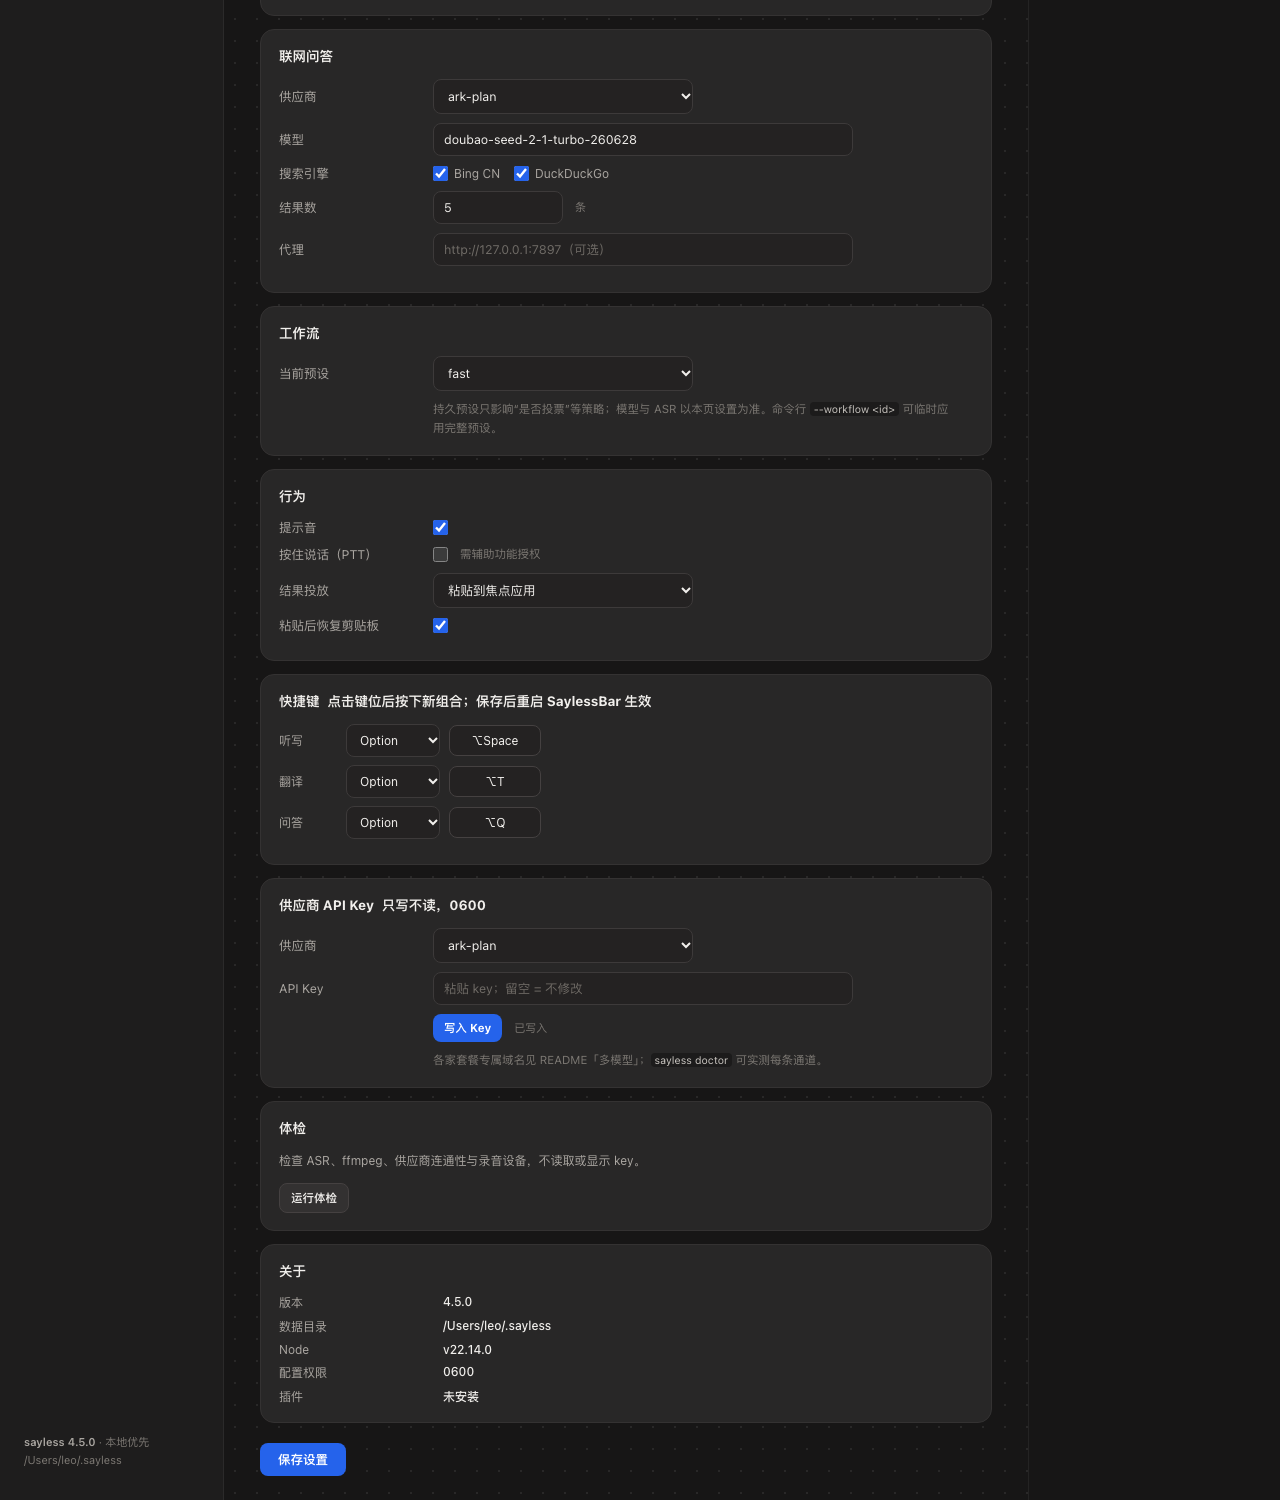
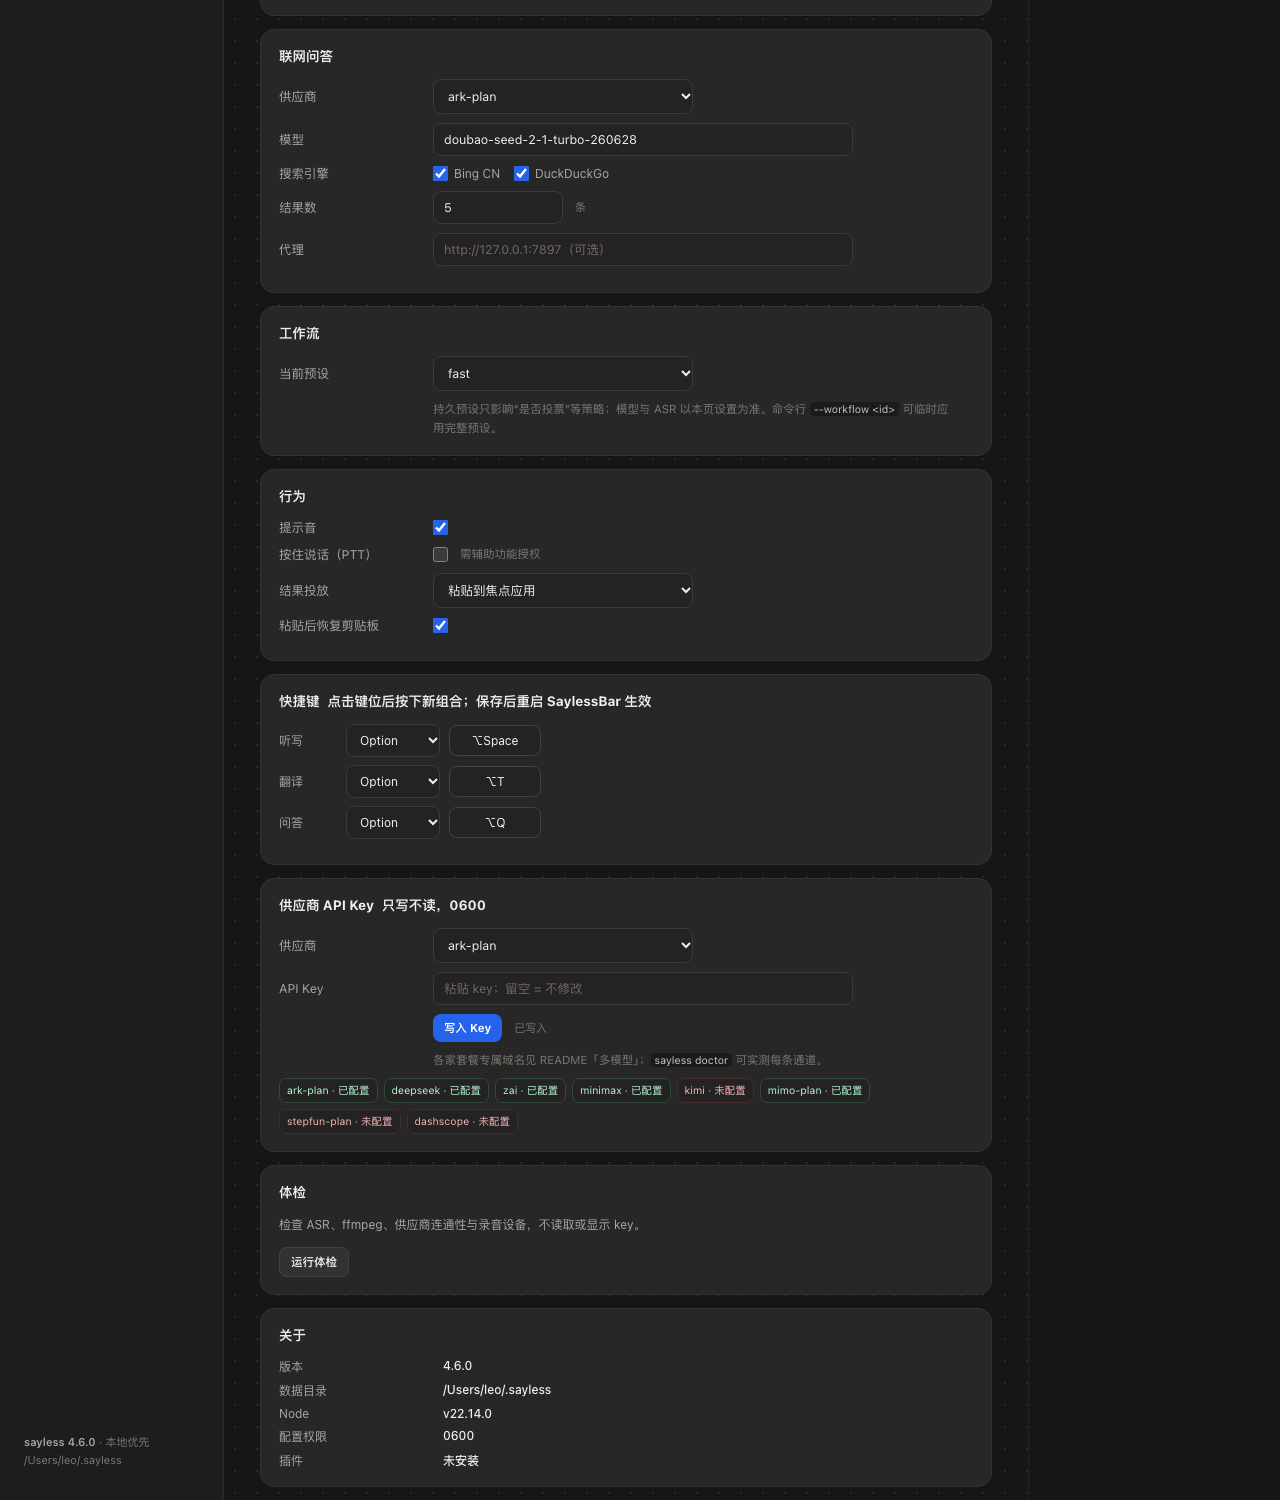
v4.6.0: first-run onboarding, provider status, history detail
- hub: one-click init via bundled CLI when config/providers missing (shows CLI errors)
- settings: per-provider key status chips, click to select, live update after key write
- history: expandable ASR raw text + ASR/LLM/total timings
- hotkeys: inline duplicate-combo warning, save blocked on conflicts; capture mode unregisters Carbon hotkeys
- app: inject configExists/dictExists/timings; version/Info/CLI/package bumped to 4.6.0
- tests: 68 Node integration tests incl. onboarding/provider/history-detail DOM checks
- docs/screenshots refreshed

diff --git a/app/hub.html b/app/hub.html
@@ -57,6 +57,12 @@ h2.sec{font-size:13px;color:var(--sub);font-weight:700;letter-spacing:.7px;margi
 h2.sec .note{font-size:11px;color:var(--muted);font-weight:400;letter-spacing:0;text-transform:none;margin-left:8px}
 .grid2{display:grid;grid-template-columns:1fr 1fr;gap:14px}
 .grid2>*{min-width:0}
+.setup-banner{display:flex;gap:14px;align-items:center;background:#2a2418;border:1px solid #5b4a2a;border-radius:14px;padding:14px 16px;margin-bottom:18px;max-width:960px}
+.setup-banner[hidden]{display:none}
+.setup-banner .sb-body{flex:1;min-width:0}
+.setup-banner .sb-body b{font-size:13px}
+.setup-banner .sub{font-size:11.5px;margin-top:3px;color:#d6c49c}
+.setup-banner .warn{margin-top:5px;white-space:pre-wrap}
 .card{background:var(--card);border:1px solid #353333;border-radius:var(--radius);padding:18px}
 .card.tight{padding:14px}
 .card h3{font-size:13.5px;font-weight:700;margin-bottom:10px;display:flex;align-items:center;gap:8px}
@@ -170,6 +176,13 @@ input[type=checkbox]{width:15px;height:15px;accent-color:#2563eb}
 .statusbar .s{font-size:10.5px;color:#cfcbc5;background:#242222;border:1px solid #383535;border-radius:7px;padding:4px 7px}
 .statusbar .s.ok{color:#b8f3d8;border-color:#2f4b35}
 .statusbar .s.bad{color:#f4b6b6;border-color:#4a2929}
+button.s{cursor:pointer}
+button.s:hover{background:#343131}
+.hist-detail{grid-column:1/-1;border-top:1px solid #3a3737;margin-top:2px;padding-top:9px;display:grid;gap:7px}
+.hist-detail[hidden]{display:none}
+.hd-label{font-size:10px;color:var(--muted);letter-spacing:.5px;text-transform:uppercase;margin-bottom:3px}
+.hd-pre{background:#1b1a1a;border:1px solid #343232;border-radius:8px;padding:8px 10px;font-size:11.5px;line-height:1.55;color:#d8d4cf;white-space:pre-wrap;word-break:break-word;max-height:160px;overflow:auto;margin:0}
+.hd-meta{font-size:10.5px;color:var(--muted);line-height:1.6}
 .cross-row{display:flex;gap:7px;align-items:center;margin-bottom:7px}
 .cross-row select{max-width:150px;flex-shrink:0}
 .cross-row input{flex:1;min-width:100px;background:#242222;border:1px solid #3d3a3a;border-radius:8px;padding:8px 10px;font-size:12.5px;color:var(--txt);outline:none}
@@ -259,6 +272,15 @@ kbd{display:inline-block;background:#3a3838;border:1px solid #4b4747;border-bott
 </div>
 
 <div class="main">
+  <div class="setup-banner" id="setup-banner" hidden>
+    <div class="sb-body">
+      <b>首次使用</b>
+      <div class="sub" id="setup-text"></div>
+      <div class="warn" id="setup-error" hidden></div>
+    </div>
+    <button class="btn mini" id="setup-init" data-act="init-config">一键初始化</button>
+  </div>
+
   <!-- 首页 -->
   <div class="tab" id="t0">
     <div class="hero">
@@ -453,6 +475,7 @@ kbd{display:inline-block;background:#3a3838;border:1px solid #4b4747;border-bott
       <div class="section">
         <h3>快捷键 <span class="hintdot">点击键位后按下新组合；保存后重启 SaylessBar 生效</span></h3>
         <div id="hotkey-rows"></div>
+        <div class="warn" id="hotkey-conflict" style="display:none"></div>
         <div class="warn" id="hotkey-warn" style="display:none"></div>
       </div>
 
@@ -462,6 +485,7 @@ kbd{display:inline-block;background:#3a3838;border:1px solid #4b4747;border-bott
         <div class="frow"><label>API Key</label><input type="password" id="s-key-value" placeholder="粘贴 key；留空 = 不修改" autocomplete="off"></div>
         <div class="frow"><label></label><button class="btn mini" data-act="save-key">写入 Key</button><span class="unit" id="key-status"></span></div>
         <div class="hint">各家套餐专属域名见 README「多模型」；<code>sayless doctor</code> 可实测每条通道。</div>
+        <div class="statusbar" id="provider-status"></div>
       </div>
 
       <div class="section">
@@ -668,6 +692,49 @@ function copyText(text) {
 }
 
 /* ---------- 首页 ---------- */
+function timingText(t) {
+  if (!t) return '耗时 —';
+  var asr = Number(t.asr || 0), llm = Number(t.llm || 0), total = Number(t.total || 0);
+  return 'ASR ' + asr + 'ms · LLM ' + llm + 'ms · 总计 ' + total + 'ms';
+}
+function renderSetupBanner() {
+  var el = $('#setup-banner');
+  if (!el) return;
+  var missing = ENV.configExists === false;
+  var noProviders = !PROVIDERS.length;
+  if (!missing && !noProviders) { el.hidden = true; return; }
+  el.hidden = false;
+  var text = missing
+    ? '还没有 ~/.sayless/config.json。初始化会生成本地配置与空词库（不联网）。'
+    : '配置里还没有供应商。初始化会补全内置 provider 列表。';
+  $('#setup-text').textContent = text;
+  var btn = $('#setup-init');
+  if (btn && !btn.disabled) btn.textContent = missing ? '一键初始化' : '补全默认配置';
+}
+function renderProviderStatus() {
+  var el = $('#provider-status');
+  if (!el) return;
+  if (!PROVIDERS.length) {
+    el.innerHTML = '<span class="s bad">无供应商（先初始化配置）</span>';
+    return;
+  }
+  el.innerHTML = PROVIDERS.map(function (p) {
+    var ok = !!KEYSTATUS[p];
+    return '<button class="s ' + (ok ? 'ok' : 'bad') + '" data-act="pick-provider" data-provider="' + attr(p) + '">'
+      + esc(p) + ' · ' + (ok ? '已配置' : '未配置') + '</button>';
+  }).join('');
+}
+function hotkeyConflicts() {
+  var seen = {}, out = [];
+  ['dictate', 'translate', 'ask'].forEach(function (slot) {
+    var h = HOTKEYS[slot];
+    if (!h || h.key == null) return;
+    var sig = h.key + ':' + h.modifier;
+    if (seen[sig]) out.push(seen[sig] + ' / ' + slot + ' 都是 ' + hotkeyText(h));
+    else seen[sig] = slot;
+  });
+  return out;
+}
 function renderHomeShortcuts() {
   var el = $('#home-shortcuts');
   if (!el) return;
@@ -748,12 +815,17 @@ function renderHistory() {
   $('#hist-list').innerHTML = list.map(function (e, i) {
     var m = modeLabel(e.mode);
     var rec = e.rec ? String(e.rec) : '';
-    var actions = '<button class="iconbtn" data-act="copy-hist" title="复制">⧉</button>';
+    var actions = '<button class="iconbtn" data-act="toggle-detail" title="详情">ⓘ</button>' +
+      '<button class="iconbtn" data-act="copy-hist" title="复制">⧉</button>';
     if (rec) {
       actions += '<button class="iconbtn" data-act="play" data-file="' + attr(rec) + '" title="回放">▶</button>';
       actions += '<button class="iconbtn" data-act="retranscribe" data-file="' + attr(rec) + '" title="重转写">↻</button>';
     }
     actions += '<button class="iconbtn danger" data-act="del-hist" data-ts="' + attr(e.ts) + '" title="删除">✕</button>';
+    var detail = '<div class="hist-detail" hidden>' +
+      '<div><div class="hd-label">ASR 原文</div><pre class="hd-pre">' + esc(e.raw || '（无原文记录）') + '</pre></div>' +
+      '<div class="hd-meta">' + timingText(e.timings) + (e.app ? ' · 应用 ' + esc(e.app) : '') + (rec ? ' · 录音 ' + esc(rec) : '') + '</div>' +
+      '</div>';
     return '<div class="hist-row" data-ts="' + attr(e.ts) + '">' +
       '<div class="hist-time">' + esc(timeLabel(e.ts)) + '</div>' +
       '<div><span class="mode ' + m.cls + '">' + esc(m.text) + '</span></div>' +
@@ -761,6 +833,7 @@ function renderHistory() {
       (e.app ? '<div class="hist-app">应用 · ' + esc(e.app) + '</div>' : '') +
       '</div>' +
       '<div class="hist-actions">' + actions + '</div>' +
+      detail +
       '</div>';
   }).join('');
 }
@@ -860,6 +933,17 @@ function renderHotkeys() {
     var h = HOTKEYS[slot] || {};
     return '<div class="k">' + names[slot] + '</div><kbd>' + esc(MOD_NAMES[h.modifier] || '') + '</kbd><kbd>' + esc(h.label || keyLabel(h.key)) + '</kbd>';
   }).join('');
+  var conflictEl = $('#hotkey-conflict');
+  if (conflictEl) {
+    var conflicts = hotkeyConflicts();
+    if (conflicts.length) {
+      conflictEl.style.display = 'block';
+      conflictEl.textContent = '快捷键冲突：' + conflicts.join('；') + '。请改开后再保存。';
+    } else {
+      conflictEl.style.display = 'none';
+      conflictEl.textContent = '';
+    }
+  }
   renderHomeShortcuts();
 }
 function renderSettings() {
@@ -904,6 +988,8 @@ function renderSettings() {
   updateAsrHint();
   renderStatus();
   renderEnv();
+  renderProviderStatus();
+  renderSetupBanner();
 }
 function updateAsrHint() {
   var hints = {
@@ -1000,16 +1086,9 @@ function collectSettings() {
   };
 }
 function saveSettings() {
-  var seen = {}, conflict = null;
-  ['dictate', 'translate', 'ask'].forEach(function (slot) {
-    var h = HOTKEYS[slot];
-    if (!h || h.key == null) return;
-    var sig = h.key + ':' + h.modifier;
-    if (seen[sig]) conflict = seen[sig] + ' / ' + slot;
-    else seen[sig] = slot;
-  });
-  if (conflict) {
-    toast('快捷键冲突：' + conflict + ' 使用了同一组合，请先改开', 'warn');
+  var conflicts = hotkeyConflicts();
+  if (conflicts.length) {
+    toast('快捷键冲突：' + conflicts.join('；'), 'warn');
     return;
   }
   var cfg = collectSettings();
@@ -1045,6 +1124,14 @@ window.doctorDone = function (text) {
   var btn = $('#doctor-btn');
   if (btn) btn.disabled = false;
 };
+window.initConfigDone = function (ok, text) {
+  var btn = $('#setup-init');
+  if (btn) { btn.disabled = false; btn.textContent = ok ? '已初始化' : '一键初始化'; }
+  var err = $('#setup-error');
+  if (!ok && err) { err.hidden = false; err.textContent = String(text || '初始化失败'); }
+  if (ok) toast('配置已生成，正在刷新…');
+  else toast('初始化失败', 'warn');
+};
 window.settingsSaved = function () {
   var el = $('#save-status');
   if (el) {
@@ -1062,6 +1149,7 @@ window.keySaved = function () {
     el.textContent = '已写入 ✓';
     setTimeout(function () { el.textContent = ''; }, 3000);
   }
+  renderProviderStatus();
   toast('API Key 已写入本地配置');
 };
 window.hubActionDone = function (msg) {
@@ -1133,6 +1221,31 @@ document.addEventListener('click', function (e) {
     renderCross(models2); return;
   }
   if (act === 'capture-key') return startCapture(btn.getAttribute('data-slot'));
+  if (act === 'toggle-detail') {
+    var detail = $('.hist-detail', btn.closest('.hist-row'));
+    if (detail) { detail.hidden = !detail.hidden; btn.style.color = detail.hidden ? '' : 'var(--accent)'; }
+    return;
+  }
+  if (act === 'pick-provider') {
+    var pick = btn.getAttribute('data-provider') || '';
+    var selKey = $('#s-key-provider');
+    if (selKey && pick) {
+      selKey.value = pick;
+      selKey.dispatchEvent(new Event('change'));
+      toast('已选择 ' + pick + '，可粘贴 key 后写入');
+    }
+    return;
+  }
+  if (act === 'init-config') {
+    var initBtn = $('#setup-init');
+    var err = $('#setup-error');
+    if (err) { err.hidden = true; err.textContent = ''; }
+    if (initBtn) { initBtn.disabled = true; initBtn.textContent = '初始化中…'; }
+    if (!post({ action: 'initConfig' })) {
+      if (initBtn) { initBtn.disabled = false; initBtn.textContent = '一键初始化'; }
+    }
+    return;
+  }
   if (act === 'copy-hist') {
     var row = btn.closest('.hist-row');
     var txt = row && $('.hist-text', row);
@@ -1287,6 +1400,7 @@ renderHome();
 renderHistory();
 renderDict();
 renderSettings();
+renderSetupBanner();
 go(APP.tab);
 </script>
 </body>

diff --git a/app/SaylessBar.swift b/app/SaylessBar.swift
@@ -1,4 +1,4 @@
-// SaylessBar v4.5 — Typeless 式 UI：菜单栏 + 录音胶囊浮窗 + 数据驱动 hub（首页/历史/词典/设置）。
+// SaylessBar v4.6 — Typeless 式 UI：菜单栏 + 录音胶囊浮窗 + 数据驱动 hub（首页/历史/词典/设置）。
 // 设计：暗色 HUD 胶囊 440×52 底部居中；录音=实时 15 根电平条；处理=Thinking；完成=✓+文本预览自隐。
 import AppKit
 import Carbon.HIToolbox
@@ -326,7 +326,7 @@ final class CapsulePanel {
 
 
 // ---------- 共享路径 / 工具 ----------
-let appVersion = (Bundle.main.infoDictionary?["CFBundleShortVersionString"] as? String) ?? "4.5.0"
+let appVersion = (Bundle.main.infoDictionary?["CFBundleShortVersionString"] as? String) ?? "4.6.0"
 let functionKeyCodes: Set<UInt32> = [122, 120, 99, 118, 96, 97, 98, 100, 101, 109, 103, 111] // F1-F12
 let saylessConfigFile = saylessDataDir + "/config.json"
 let saylessDictFile = saylessDataDir + "/dictionary.json"
@@ -561,6 +561,7 @@ final class HubWindow: NSObject {
     private var window: NSWindow?
     private var web: WKWebView?
     private var currentTab = 0
+    private var initializingConfig = false
 
     func show(tab: Int = 0) {
         currentTab = tab
@@ -696,6 +697,7 @@ final class HubWindow: NSObject {
             if let rawText = o["raw"] as? String, !rawText.isEmpty { e["raw"] = String(rawText.prefix(500)) }
             if let app = o["app"] as? String, !app.isEmpty { e["app"] = app }
             if let rec = o["rec"] as? String, !rec.isEmpty { e["rec"] = (rec as NSString).lastPathComponent }
+            if let timings = o["timings"] as? [String: Any] { e["timings"] = timings }
             return e
         }
 
@@ -730,6 +732,8 @@ final class HubWindow: NSObject {
             "whisperModelExists": whisperModelExists,
             "ffmpegExists": whichTool("ffmpeg") != nil,
             "configMode": configFileMode() ?? "—",
+            "configExists": FileManager.default.fileExists(atPath: saylessConfigFile),
+            "dictExists": FileManager.default.fileExists(atPath: saylessDictFile),
             "plugins": pluginNames
         ]
 
@@ -841,6 +845,36 @@ final class HubWindow: NSObject {
         }
         if removed > 0 { _ = writeHistoryLines(kept) }
         return removed
+    }
+
+    /// 首次使用：在 App 内运行内置 CLI 的 init，生成 config.json / dictionary.json
+    private func runInitConfig() {
+        guard !initializingConfig else { return }
+        guard let cli = saylessCLIPath() else {
+            web?.evaluateJavaScript("window.initConfigDone && window.initConfigDone(false, '找不到 sayless CLI')")
+            return
+        }
+        guard let node = whichTool("node") else {
+            web?.evaluateJavaScript("window.initConfigDone && window.initConfigDone(false, '找不到 Node.js，请先安装 Node 18+')")
+            return
+        }
+        initializingConfig = true
+        DispatchQueue.global(qos: .userInitiated).async { [weak self] in
+            let r = runProcess(node, [cli, "init"], env: ["SAYLESS_DIR": saylessDataDir])
+            let text = [r.stdout, r.stderr].filter { !$0.isEmpty }.joined(separator: "\n")
+                .trimmingCharacters(in: .whitespacesAndNewlines)
+            DispatchQueue.main.async {
+                guard let self else { return }
+                self.initializingConfig = false
+                let ok = r.code == 0
+                let msg = text.isEmpty ? (ok ? "配置已生成" : "初始化失败") : text
+                self.web?.evaluateJavaScript("window.initConfigDone && window.initConfigDone(\(ok ? "true" : "false"), \(jsStringLiteral(msg)))")
+                if ok {
+                    // 让页面先显示成功提示，再重载为初始化后的配置
+                    DispatchQueue.main.asyncAfter(deadline: .now() + 0.9) { self.refresh() }
+                }
+            }
+        }
     }
 
     private func runDoctor() {
@@ -1115,6 +1149,9 @@ extension HubWindow: WKScriptMessageHandler {
 
         case "runDoctor":
             runDoctor()
+
+        case "initConfig":
+            runInitConfig()
 
         case "openDataDir":
             try? FileManager.default.createDirectory(atPath: saylessDataDir, withIntermediateDirectories: true)

diff --git a/README.md b/README.md
@@ -2,7 +2,7 @@
 
 > ⚠ **声明**：本项目是对 Typeless 应用进行**逆向工程的学习项目**，交互形态按 1:1 复刻仅作学习研究之用，**切勿用于任何商业用途**（详见 [LICENSE](LICENSE)）。与 Typeless 原开发者无任何隶属或授权关系。
 
-**本地优先的中文语音听写 / 翻译 / 问答管线**——录音 → 语音识别 → 词语库 → 多模型润色 → 粘贴进焦点应用，配上一个 Typeless 风格的菜单栏 App。当前版本 **v4.5.0**（见 [CHANGELOG](CHANGELOG.md)）。
+**本地优先的中文语音听写 / 翻译 / 问答管线**——录音 → 语音识别 → 词语库 → 多模型润色 → 粘贴进焦点应用，配上一个 Typeless 风格的菜单栏 App。当前版本 **v4.6.0**（见 [CHANGELOG](CHANGELOG.md)）。
 
 干净的自研实现（不含任何第三方听写应用代码），模型走**你自己的套餐**，词语库和听写历史全部本地。
 
@@ -106,7 +106,7 @@ SAYLESS_SIGN=adhoc BUILD_ONLY=1 ./build.sh   # 跳过钥匙串里的持久证书
 
 - **录音胶囊**：屏幕底部浮出黑胶囊（✕ / 实时波形 / ✓），Thinking 态与结果预览自隐，Esc 取消，90s 自动收尾
 - **hub 四页**：首页（口述字数/条数/活跃天/连续天 + 20 周热力图）｜历史记录（实时搜索、复制、回放、重转写、删除、清空）｜词典（替换/热词/词频/风格规则/分应用层增删改）｜设置（见下）
-- **设置页**：ASR 引擎/路径/语种、润色供应商+模型+重试、翻译、交叉阵容与仲裁、Ask（引擎/代理/结果数）、工作流、提示音/PTT/结果投放/剪贴板恢复、**快捷键录制**、**供应商 API Key 写入**（密码框不回显，key 只落本地 config.json 0600）、**一键体检**——保存深合并写回 config.json，数字/空值也能正确清除
+- **设置页**：ASR 引擎/路径/语种、润色供应商+模型+重试、翻译、交叉阵容与仲裁、Ask（引擎/代理/结果数）、工作流、提示音/PTT/结果投放/剪贴板恢复、**快捷键录制（冲突内联提示）**、**供应商 API Key 写入 + 各 provider 已配置状态**（密码框不回显，key 只落本地 config.json 0600）、**一键体检**——保存深合并写回 config.json，数字/空值也能正确清除
 - **键位**：设置页点击键位后按下新组合，保存到 config.json 的 `"hotkeys"`（slot: dictate/translate/ask，key 为 macOS 键码，modifier: option/command/control/shift/none），重启 App 生效
 - **菜单**：打开主面板 / 历史 / 设置 / 紧急停止录音 / 请求辅助功能授权 / 登录启动 / 词语库 / 数据目录 / 日志
 
@@ -267,7 +267,7 @@ flowchart LR
 ## 开发与测试
 
 ```sh
-npm test                     # 67 个 Node 集成测试：CLI 管线 / 交叉投票 / 重试 / 词典 / learn / history / hub
+npm test                     # 68 个 Node 集成测试：CLI 管线 / 交叉投票 / 重试 / 词典 / learn / history / hub
 npm run check                # node --check + 完整测试
 BUILD_ONLY=1 ./app/build.sh  # 只编译打包 App（不装 /Applications、不启动）
 node tools/gen-hub-demo.mjs /tmp/hub-demo  # Chrome headless 渲染 hub 四页截图 + DOM js-error 检查

diff --git a/CHANGELOG.md b/CHANGELOG.md
@@ -1,5 +1,28 @@
 # Changelog
 
+## v4.6.0 (2026-10-21)
+
+以「首次使用 / 可观测性 / 日常检查」为主的下一轮全栈迭代。
+
+### Hub / App
+
+- **首次使用引导**：config 缺失或 provider 为空时，hub 顶部显示初始化横幅；一键调用内置 CLI `sayless init`（不联网），成功自动刷新，失败把命令输出展示在页面里。
+- **Provider 状态**：设置页列出每个供应商「已配置 / 未配置」，点击即可选中写入 key；Key 写入成功后状态即时更新。
+- **历史详情**：每条历史可展开 `ⓘ`，查看 ASR 原文、ASR/LLM/总耗时、应用与录音文件；数据来自新增的 `timings` 字段。
+- **快捷键冲突**：hub 内联提示重复的 key+modifier，保存前拦截；快捷键录制期间临时注销 Carbon 热键，避免录制已被占用的组合时触发原动作。
+- **空配置/回调**：`configExists`、`dictExists` 注入；初始化、设置保存、Key 写入均有成功/失败回调，不再只做乐观提示。
+- App 页头版本、Info.plist、CLI、package 统一 4.6.0。
+
+### Backend
+
+- 本版无破坏性 CLI 变更；沿用 v4.5.0 的解析/权限/重试/历史语义。
+- hub 数据补充 `timings`、`configExists`、`dictExists`。
+
+### Tests / Docs
+
+- 68 个 Node 集成测试（新增 hub onboarding / provider 状态 / 历史详情；仍含 mock provider、mock ASR、假 ffmpeg、Chrome headless）。
+- 更新 README、CHANGELOG、hub 截图。
+
 ## v4.5.0 (2026-10-20)
 
 一次前后端全栈迭代，重点是把“设置不生效、搜索没反应、录音没结束就转写”这类长期问题修掉，并补齐可测试性。
@@ -36,5 +59,5 @@
 - 登录项改为按当前状态 register/unregister。
 - 胶囊成功态恢复 2.2s 文本预览（此前成功立即消失）。
 - 新增 headless 调试口子：`SAYLESS_DUMP_HUB` / `SAYLESS_DUMP_HUB_TAB`。
-- 新增 67 个 Node 集成测试（mock 供应商/ASR + 假 ffmpeg）与 hub Chrome headless 测试；`npm test` / `npm run check`。
+- 新增 68 个 Node 集成测试（mock 供应商/ASR + 假 ffmpeg）与 hub Chrome headless 测试；`npm test` / `npm run check`。
 - 新增 `package.json`、CI、`tools/gen-hub-demo.mjs`（Chrome 截图 + DOM 检查）。
